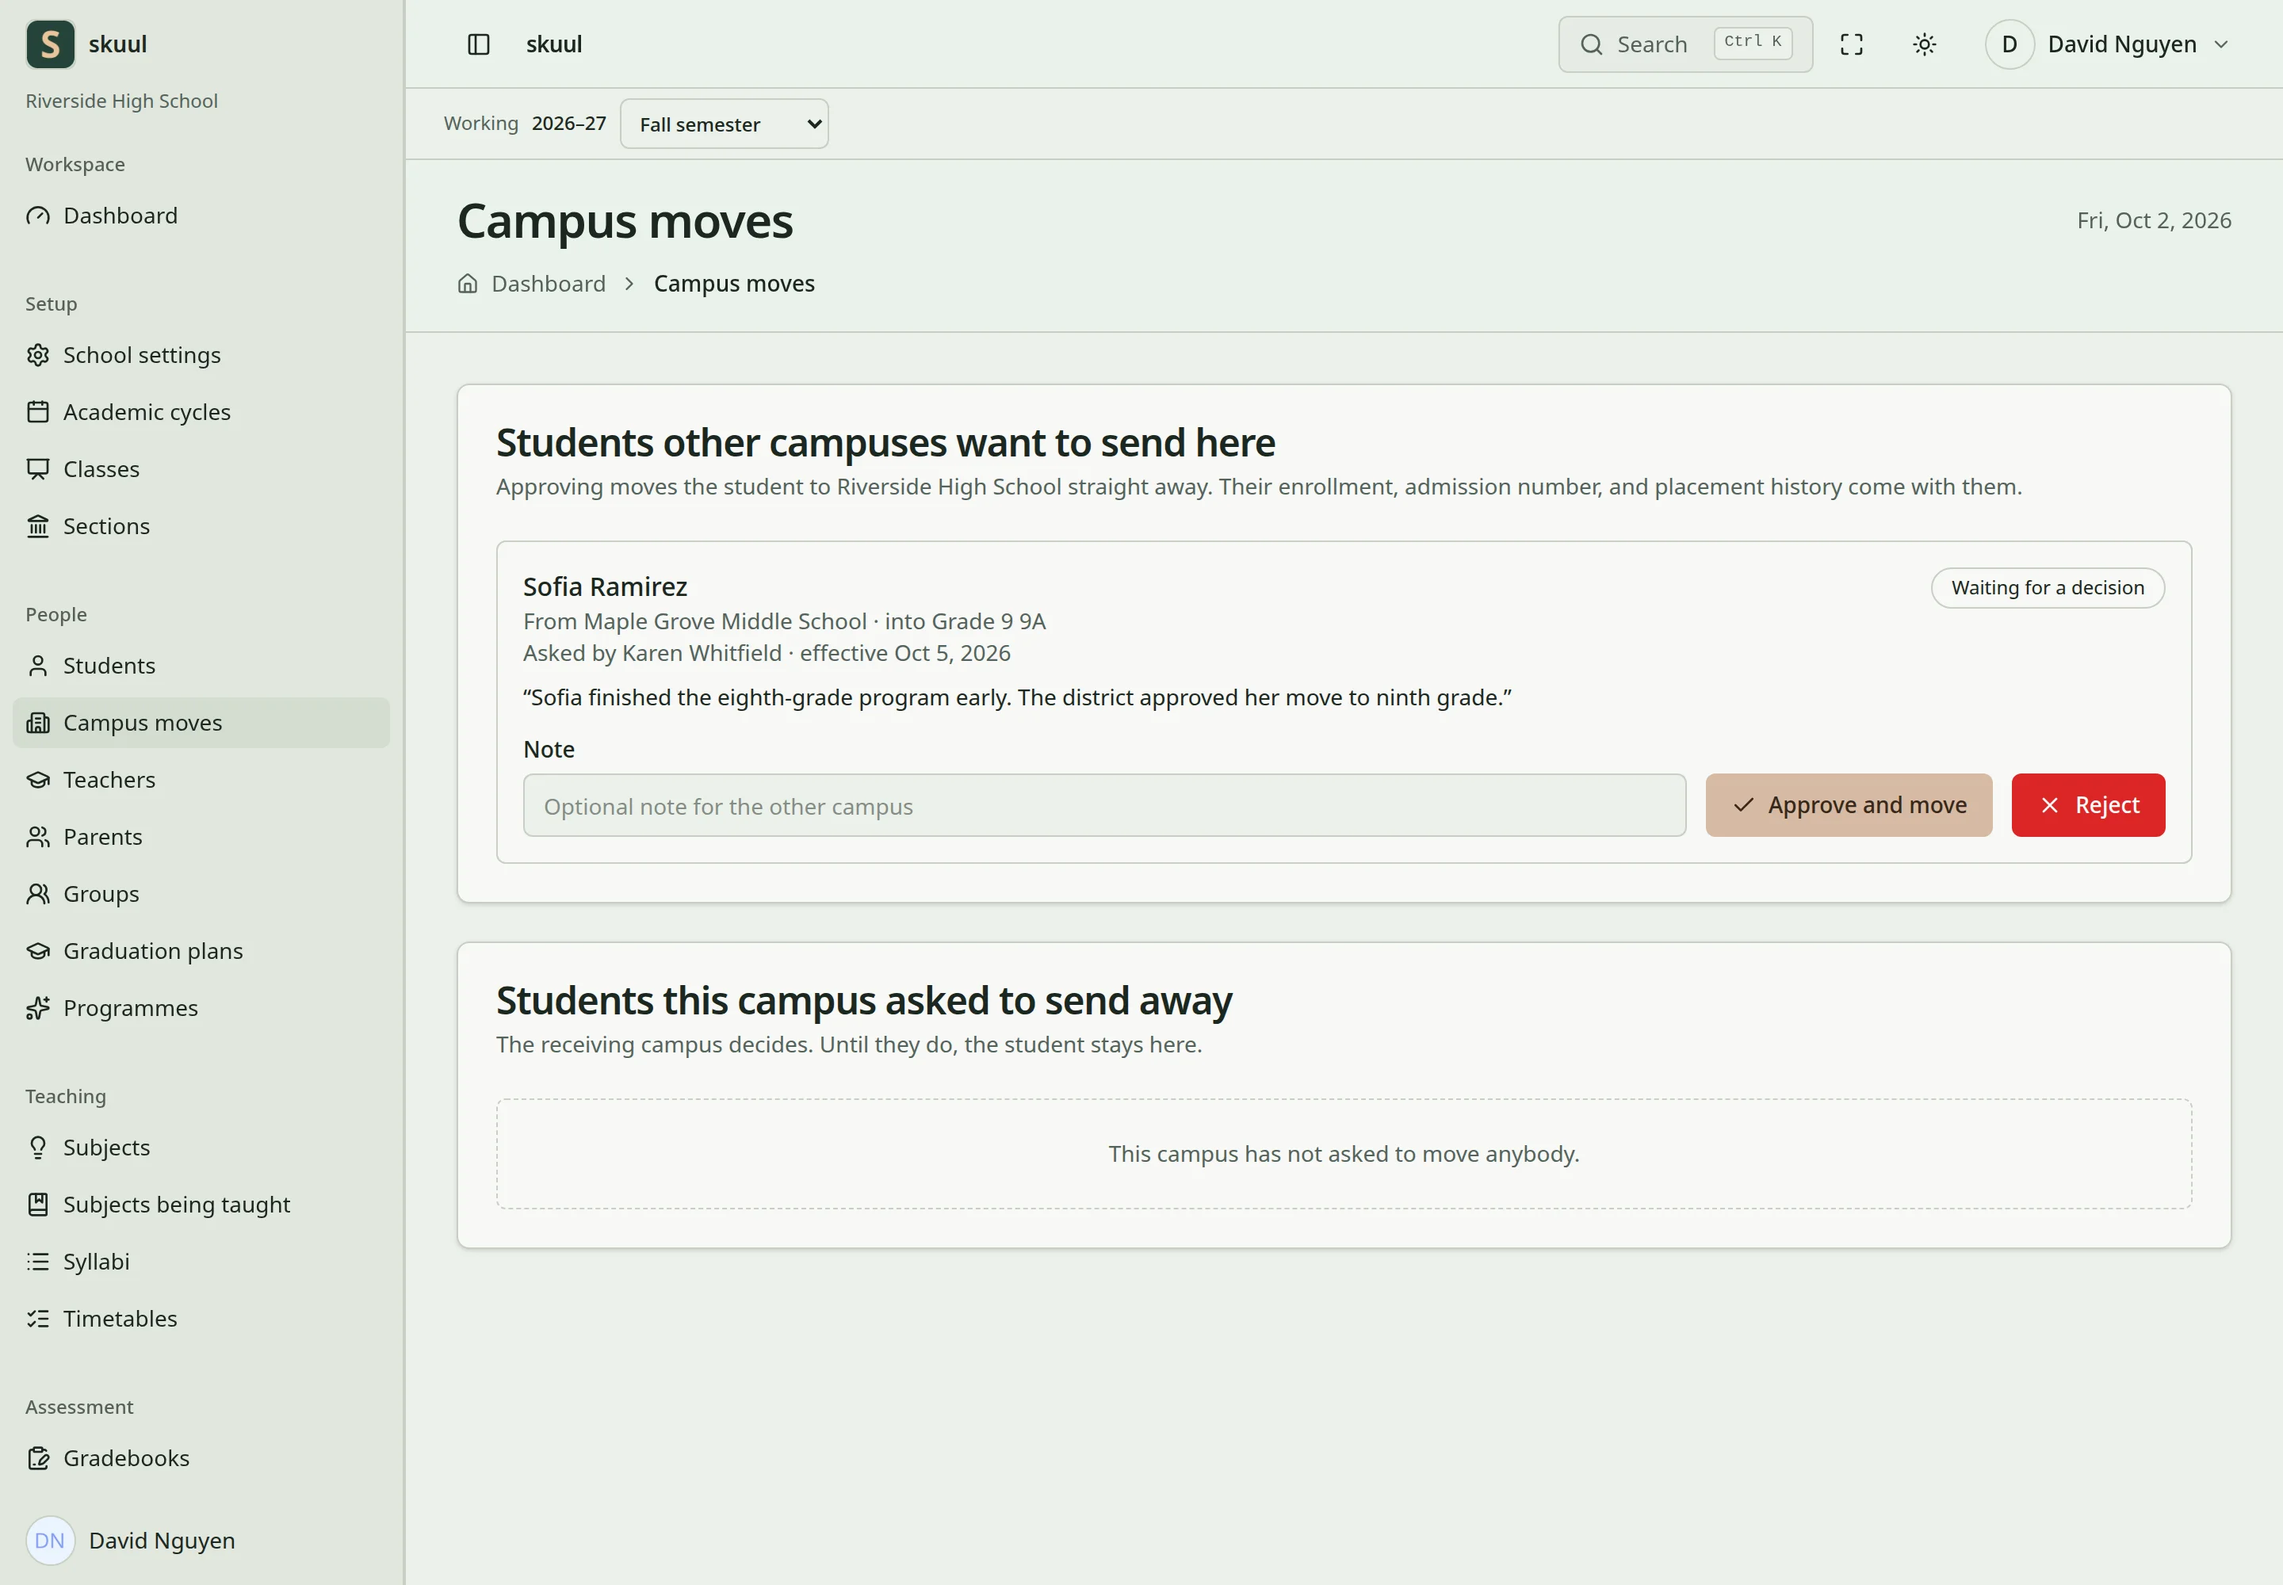
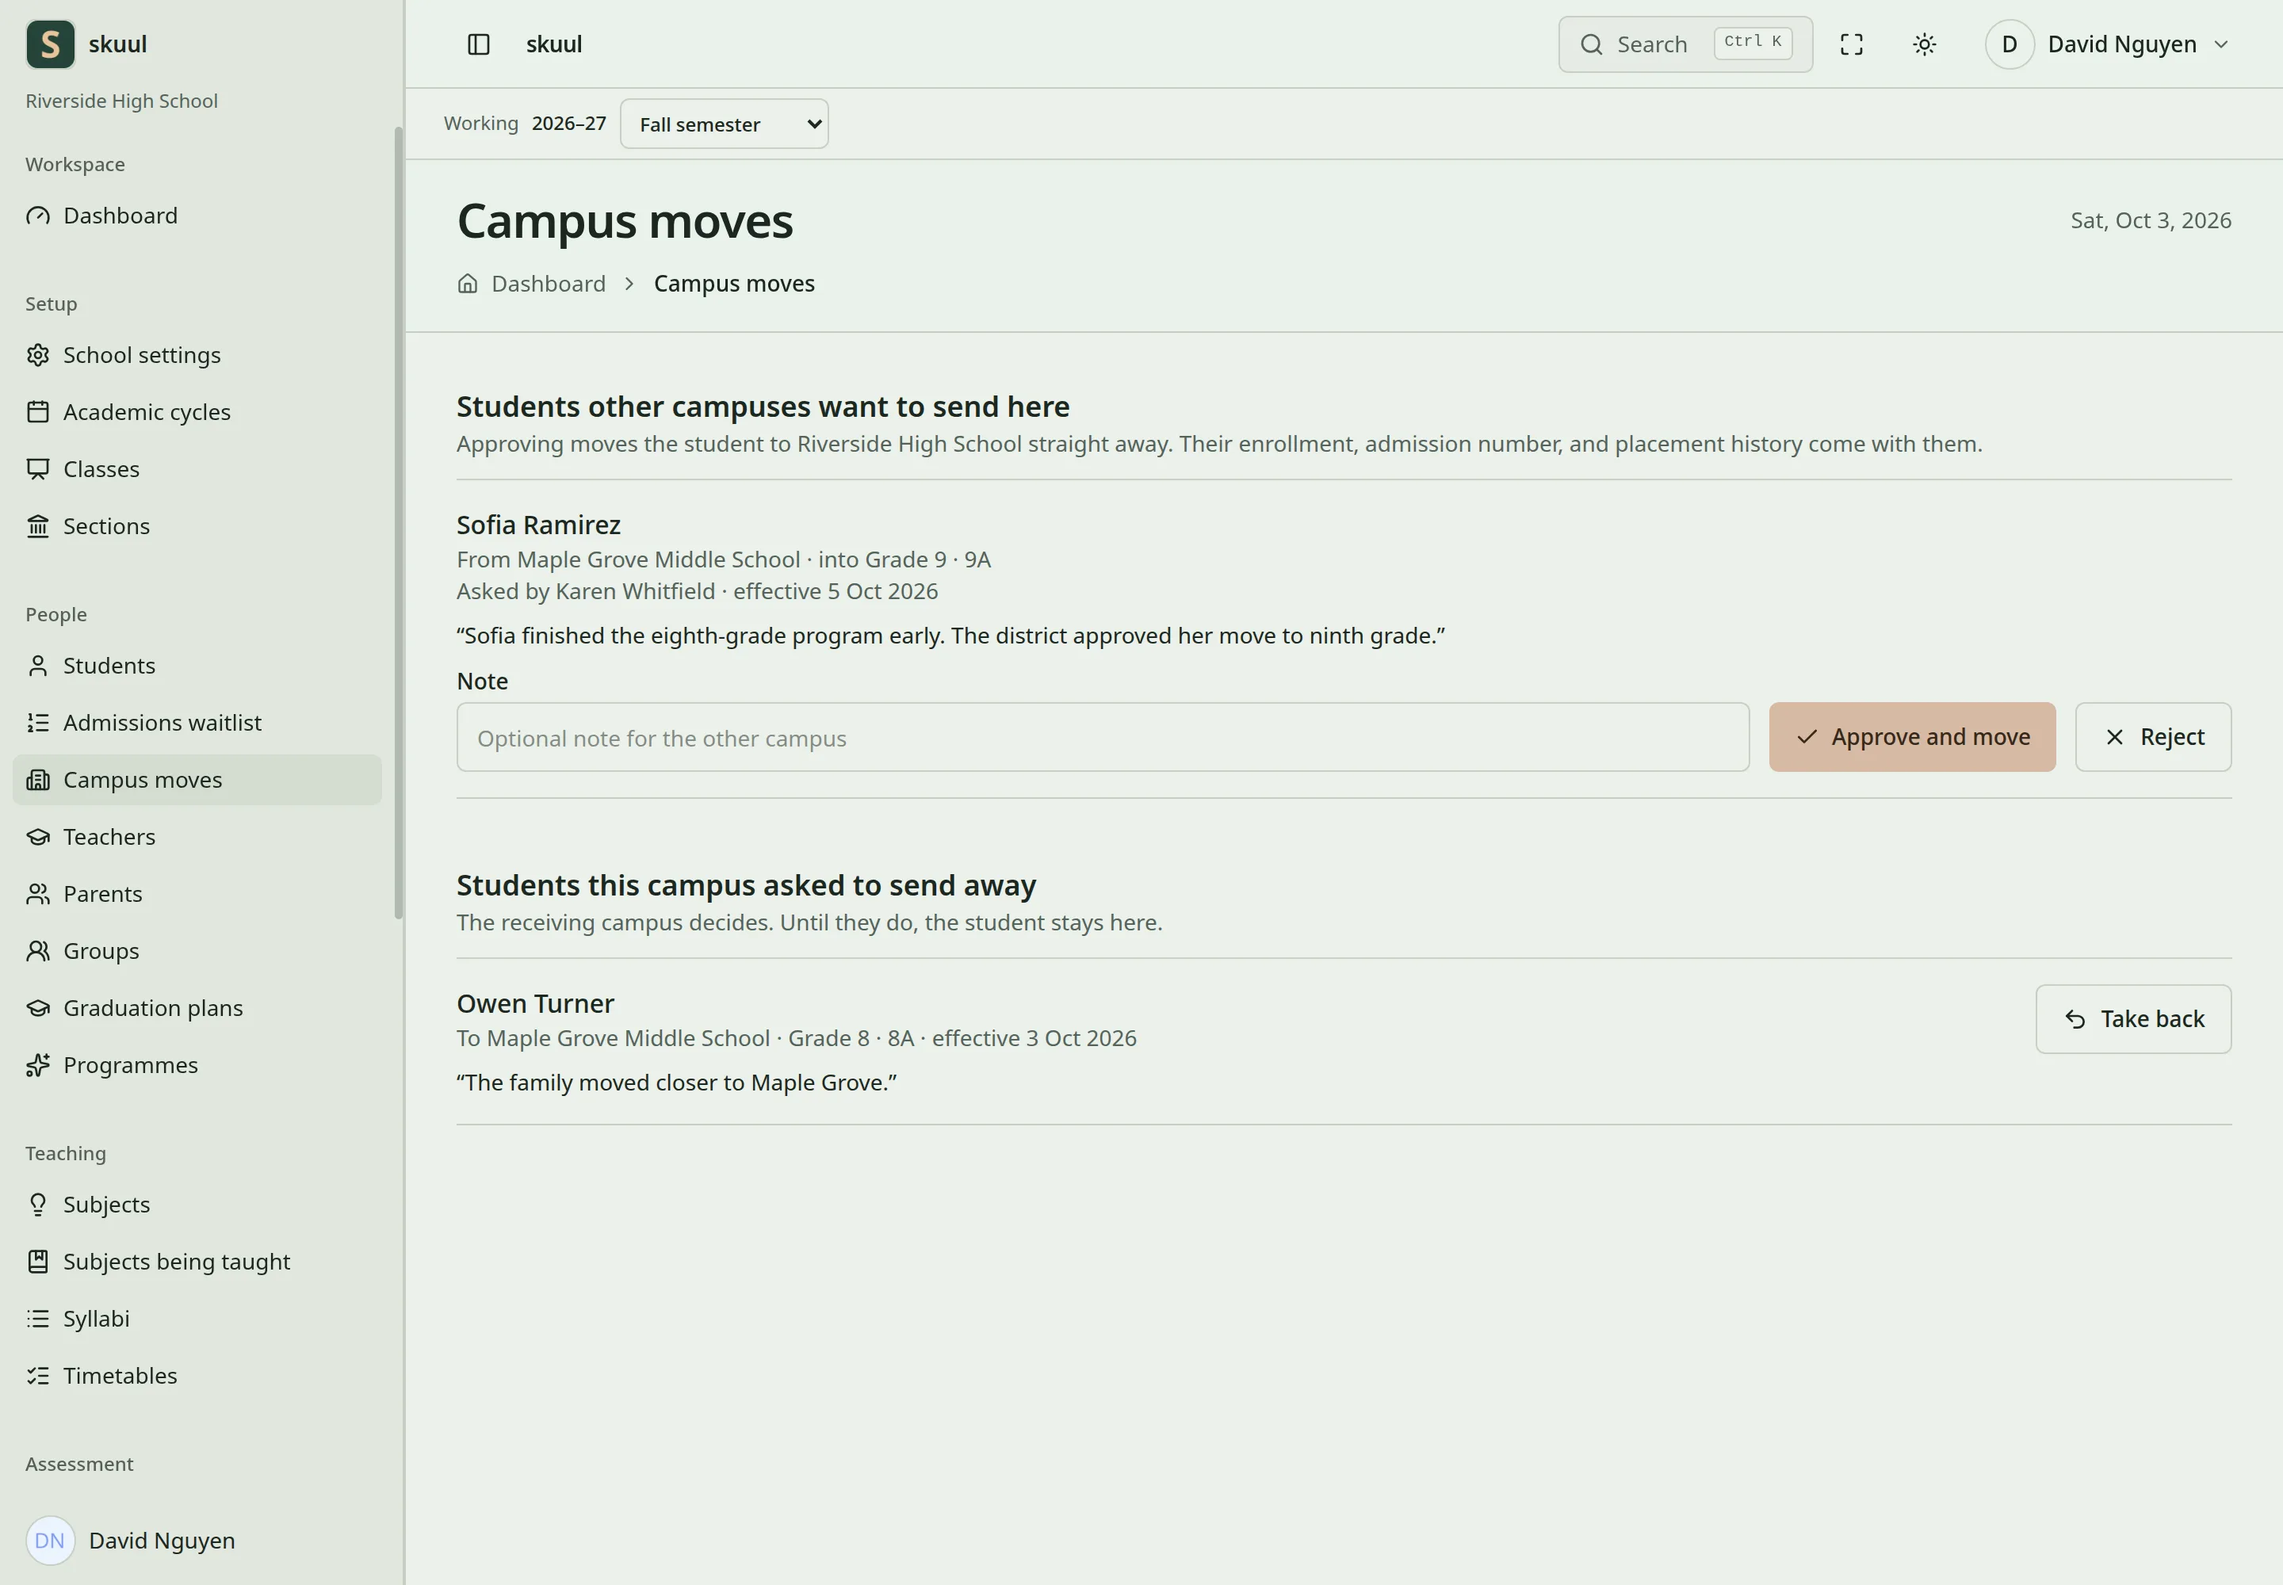
Match the campus moves guide to the app
Fix the reason limit (500 characters), the menu path, the decision
dialogs, and what a move ends at the earlier campus. Explain that
unpaid bills stay with a campus that bills separately. Add the request
form and the waiting profile, and recapture the Campus moves screen.

diff --git a/current/people/moves.md b/current/people/moves.md
@@ -1,88 +1,108 @@
 # Campus moves and transfers
 
-Start an internal campus move from the learner's profile.
-Use **People → Campus moves** to review incoming and outgoing requests.
-The requesting profile and receiving queue are separate screens.
+Move a learner to another campus of the same organization.
+Start the move from the learner's profile at the campus they attend now.
+The receiving campus decides on **Campus moves**, in the sidebar under **People**.
 
-## Before requesting a move
+## Before you ask for a move
 
-The source and destination campuses must belong to the same organization.
-Prepare an eligible active destination section with available capacity.
-Check the learner's admission number against the destination campus.
-A duplicate number prevents the move.
+- Both campuses must belong to the same organization.
+- The receiving campus needs an active section with a free seat.
+- The receiving campus must not have a learner with the same admission number.
+  The request is refused when it has one. Change one of the numbers first.
+- The learner can have only one waiting request.
 
 | Task | Authority |
 | --- | --- |
-| Manage the source enrollment | `update student` and source enrollment ownership. |
-| Request a move | `request campus move` at the source campus. |
-| Decide an incoming request | `approve campus move` at the destination campus. |
-| Move directly or decide with organization authority | Organization permission `move students between campuses`. |
+| Change the learner's enrollment | `update student` at the campus the learner attends |
+| Ask for a move | `request campus move` at the campus the learner attends |
+| Decide a request | `approve campus move` at the receiving campus |
+| Move at once, or decide for any campus | Organization permission `move students between campuses` |
 
-Ordinary organization membership does not give unrestricted operational campus access.
-Only one pending move request is allowed for the learner.
-Future effective dates are not accepted by the profile form.
+Organization membership alone does not give access to a campus.
 
-## Request or perform an internal move
+## Ask for a move
 
-![A request from Maple Grove Middle School to move a learner into Grade 9 waits for this campus to approve or reject it.](/images/current/campus-move-light-desktop.webp)
+![The Move to another campus form under Enrollment has the campus and section, the effective date, a reason, and Ask the other campus.](/images/current/campus-move-request-light-desktop.webp)
 
-Review the destination and approval state before completing a move.
-
-1. Open the learner's profile at the source campus.
-2. Open **Change the enrollment** beside **Enrollment**.
+1. Open the learner's profile.
+2. Select the ellipsis beside **Enrollment** (**Change the enrollment**).
 3. Select **Move to another campus**.
-4. Select **Campus and section** and check the destination level.
-5. Enter **Effective on**, using today or an earlier valid date.
-6. Enter the optional **Reason**, up to 1000 characters.
-7. Select **Ask the other campus**, or **Move campus** with direct organization authority.
-8. Review the waiting message or completed destination placement.
+4. In **Campus and section**, select the receiving campus and section.
+5. In **Effective on**, enter today or an earlier date. A future date is refused.
+6. In **Reason**, enter an optional reason of up to 500 characters.
+7. Select **Ask the other campus**.
+   With the organization permission, the button is **Move campus**, and the move happens at once.
 
-The destination list contains eligible sibling-campus sections.
-It is not an arbitrary organization or campus selector.
-A requested move does not move the learner until approval.
-Use **Take the request back** on the source profile to cancel an eligible waiting request.
+**Campus and section** lists the active sections of the other campuses in the organization.
+It can list a full section. The approval is then refused until a seat is free.
 
-## Decide a requested move
+![The profile shows that the learner is waiting for Maple Grove Middle School, section 8A, with Take the request back beside it.](/images/current/campus-move-waiting-light-desktop.webp)
 
-1. Select the receiving campus as the working campus.
-2. Open **People → Campus moves**.
-3. Review the learner, source, destination section, and effective date.
-4. Select **Approve and move** or **Reject** on the intended request.
-5. Confirm the learner's destination profile and placement history after approval.
+Asking does not move the learner.
+Until the receiving campus decides, the profile shows **Waiting for** with the campus, section, and date.
+To cancel, select **Take the request back**.
 
-Approval rechecks current source state, destination eligibility, duplicate numbers, and capacity.
-It applies the move in the same transaction; there is no separate approved-but-unapplied stage.
-Use the queue's **Take back** action only for a request you are authorized to cancel.
-A decided request cannot be decided again.
+## Decide a request
 
-## Review financial, access, and boarding effects
+![Campus moves lists one student another campus wants to send here, with a note, Approve and move, and Reject. Below, one student this campus asked to send away has Take back.](/images/current/campus-move-light-desktop.webp)
 
-The internal move keeps one enrollment and appends dated placement history.
-The destination gains the required campus membership.
-The source membership remains available for access to earlier source-owned records.
-The learner no longer appears as a current learner in the source campus.
+1. Switch to the receiving campus.
+2. Open **Campus moves**.
+3. Under **Students other campuses want to send here**, read the learner, campus, section, effective date, and reason.
+4. In **Note**, enter an optional note of up to 500 characters.
+5. Select **Approve and move** or **Reject**.
+6. Confirm the decision in the dialog. It names the learner.
+7. After approval, open the learner's profile and check the section and placement history.
 
-Debt or credit carries only when both campuses share a billing group.
-Balanced intercampus entries record that carry; the original ledger remains in its owning campus.
-Without a shared billing group, review the earlier-campus obligation separately.
-A departure or campus move releases the previous boarding bed.
+Approval moves the learner at once. There is no approved-but-waiting stage.
+The move uses the effective date of the request.
+Approval checks the request again: the learner's enrollment, the free seats, and the admission number.
+
+**Students this campus asked to send away** lists the requests of your campus.
+Select **Take back** to cancel one.
+A request that the other campus already decided cannot be taken back or decided again.
+The screen then shows a message and reloads the list.
+
+## What moves with the learner
+
+The learner keeps one enrollment, with its admission number and history.
+The placement history gets a dated row for the new section.
+The learner becomes a member of the receiving campus.
+The earlier campus membership stays, so the earlier campus keeps access to its own records.
+The earlier campus no longer lists the learner as a current learner.
+
+At the earlier campus, the move also ends:
+
+- the boarding place
+- programme places and group memberships
+- library reservations
+- open support plans
+
+Money moves only when both campuses are in the same billing group:
+
+- The debt or credit moves to the receiving campus. Each campus records a balanced entry against the other.
+- Unpaid bills move to the receiving campus, so the family pays them there.
+
+Campuses that bill separately move no money.
+Unpaid bills stay at the earlier campus, on the learner's profile there.
+Collect them at that campus.
 
 ## Transfers between organizations
 
-The backend transfer action closes the source enrollment and creates a linked destination successor.
-The current routed screens do not expose an interorganization transfer form.
-Do not interpret **Move to another campus** as that form.
-Ask the operator to plan and verify any supported transfer integration before promising this workflow to staff.
-Changing the status to Transferred alone does not create a destination enrollment.
-Restricted history still requires [explicit record sharing](./sharing).
+A move between organizations is a transfer.
+The app has no screen for transfers.
+**Move to another campus** lists only campuses of your own organization.
+Changing the status to **Transferred** does not create an enrollment at the other school.
+Use [record sharing](./sharing) to send history to another organization.
 
 | Problem | Action |
 | --- | --- |
-| Move menu is absent | Check source management authority and eligible sibling-campus sections. |
-| Another request is pending | Review or cancel that request before preparing a replacement. |
-| Approval reports changed source state | Reload the learner and review whether a new request is necessary. |
-| Destination is full | Resolve capacity or reserved offers before requesting another move. |
-| Admission number conflicts | Investigate both records; do not bypass identity checks with a duplicate account. |
-| Balance remained in the old campus | Check billing-group membership and earlier-campus ledger obligations. |
+| **Move to another campus** is not in the menu | Check your permissions and that another campus has an active section. |
+| The request is refused for the admission number | Change the number at one of the campuses. |
+| Another request is waiting | Take it back before you ask again. |
+| Approval says the section is full | Free a seat. Or reject, and ask again for another section. |
+| Approval says the student no longer attends the campus that asked | Reject the request. The current campus asks again. |
+| A balance stayed at the earlier campus | Check the billing group. Campuses that bill separately collect their own bills. |
 
-See [student status](./students), [billing groups](../administration/organizations), and [payments](../finance/payments).
+See [students](./students), [billing groups](../administration/organizations), and [payments](../finance/payments).
